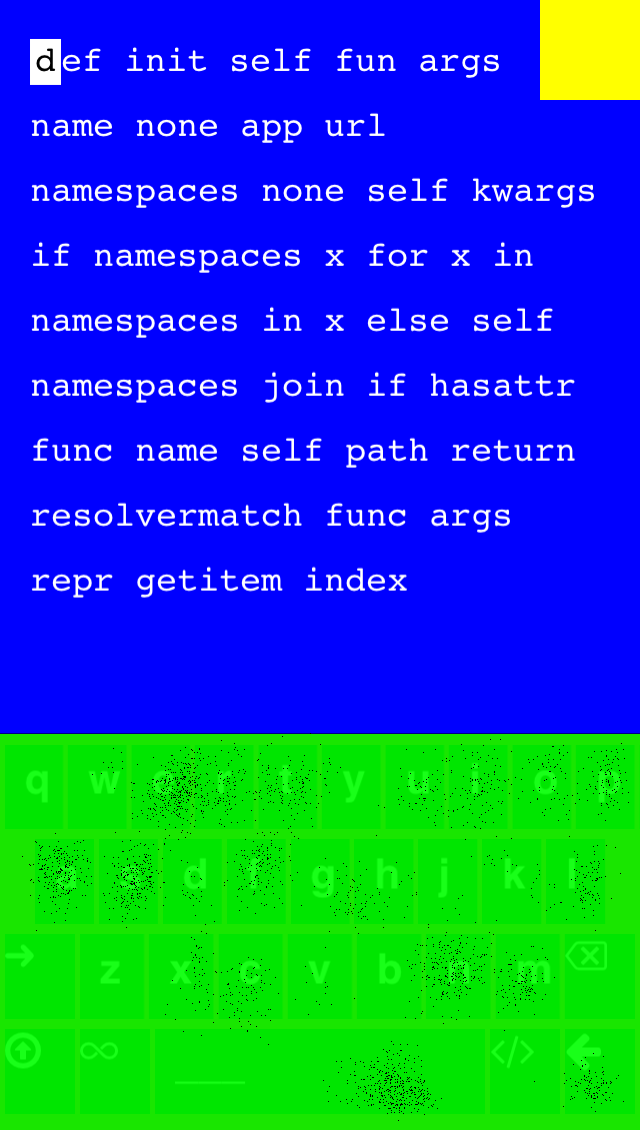
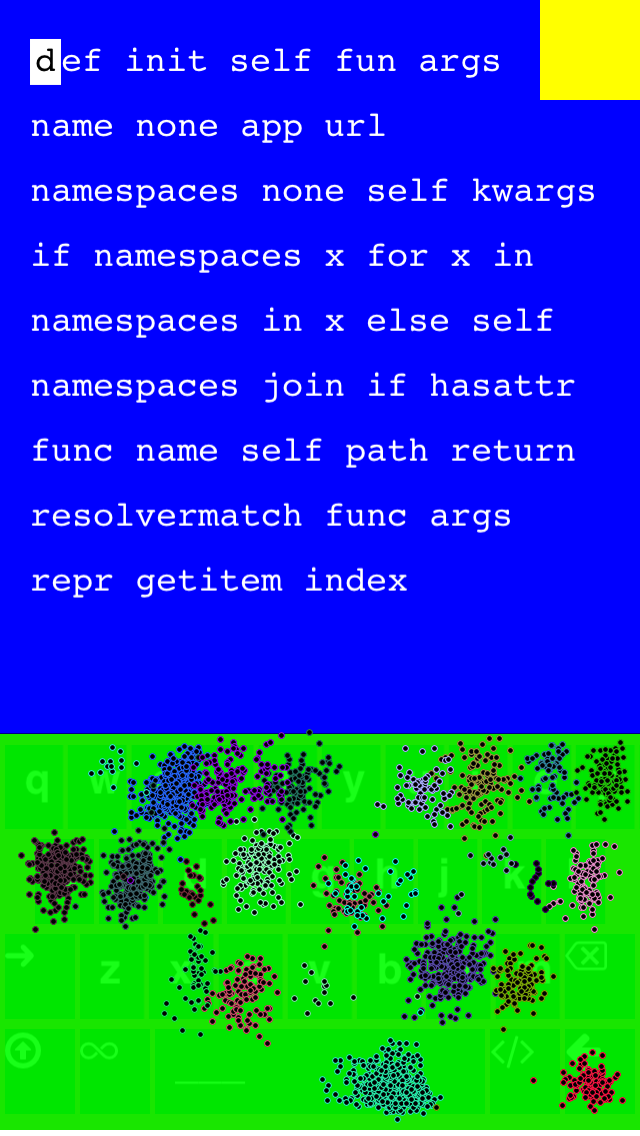
better results visualization

diff --git a/code-analysis/processNoKeyKeyboardResults.js b/code-analysis/processNoKeyKeyboardResults.js
@@ -61,7 +61,8 @@ var plot = function(stats, prototypeImg){
 
     console.log("Creating stats image");
 
-    var img = gm(prototypeImg).strokeWidth(2);
+    var radius = 1;
+    var img = gm(prototypeImg);
 
     var randomColors = new RandomColor({}, _.keys(stats).length);
     var colors = _.map(randomColors.toHex().colors, function(hex){ return "#"+hex.value});
@@ -71,7 +72,7 @@ var plot = function(stats, prototypeImg){
         index += 1;
         img = img.stroke(colors[index]);
         _.forEach(positions, function(pos){
-            img.drawPoint(pos.x, pos.y)
+            img.drawCircle(pos.x-radius, pos.y-radius, pos.x+radius, pos.y+radius)
         })
     });
 
@@ -106,7 +107,9 @@ var stats = function(raw, prototypeImg){
     });
 
     // Plot the points on the prototype
-    if (prototypeImg) plot(cleaned, prototypeImg);
+    if (prototypeImg) {
+        plot(cleaned, prototypeImg);
+    }
 
 };
 
